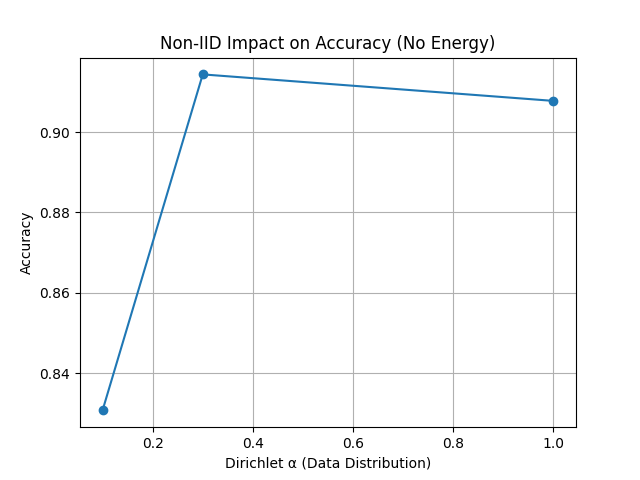
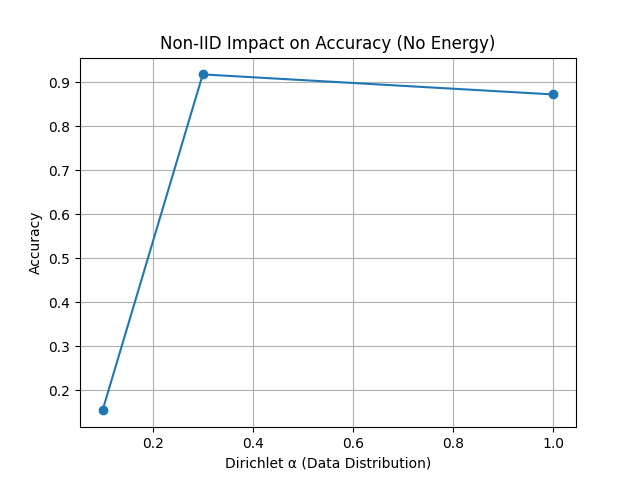
bug fix

diff --git a/main.py b/main.py
@@ -83,7 +83,7 @@ def main():
 
     models_no_energy, shap_no, eps_no, _, _, energies_no = federated_training(
         clients,
-        rounds=3,
+        rounds=5,
         epsilon=1.0,
         X_test=X_test,
         y_test=y_test
@@ -115,7 +115,7 @@ def main():
 
     full_models, shap_scores, epsilons, convergence_acc, latency_list, energies = federated_training(
         clients,
-        rounds=3,
+        rounds=5,
         epsilon=1.0,
         X_test=X_test,
         y_test=y_test
@@ -170,7 +170,7 @@ def main():
 
         models_eps, shap_eps, eps_list, _, _, energies_eps = federated_training(
             clients_eps,
-            rounds=3,
+            rounds=5,
             epsilon=eps
         )
 
@@ -245,7 +245,7 @@ def main():
 
         models_alpha, shap_alpha, eps_alpha, _, _, energies_alpha = federated_training(
             clients_alpha,
-            rounds=3,
+            rounds=5,
             epsilon=1.0
         )
 

diff --git a/src/client.py b/src/client.py
@@ -97,7 +97,10 @@ def create_clients_dirichlet(X, y, num_clients=5, alpha=0.3):
     clients = []
 
     for i in range(num_clients):
-        idx = np.array(client_indices[i])
+        # idx = np.array(client_indices[i])
+        idx = np.array(client_indices[i], dtype=int)
+        if len(idx) == 0:
+          continue
         np.random.shuffle(idx)
 
         clients.append({
